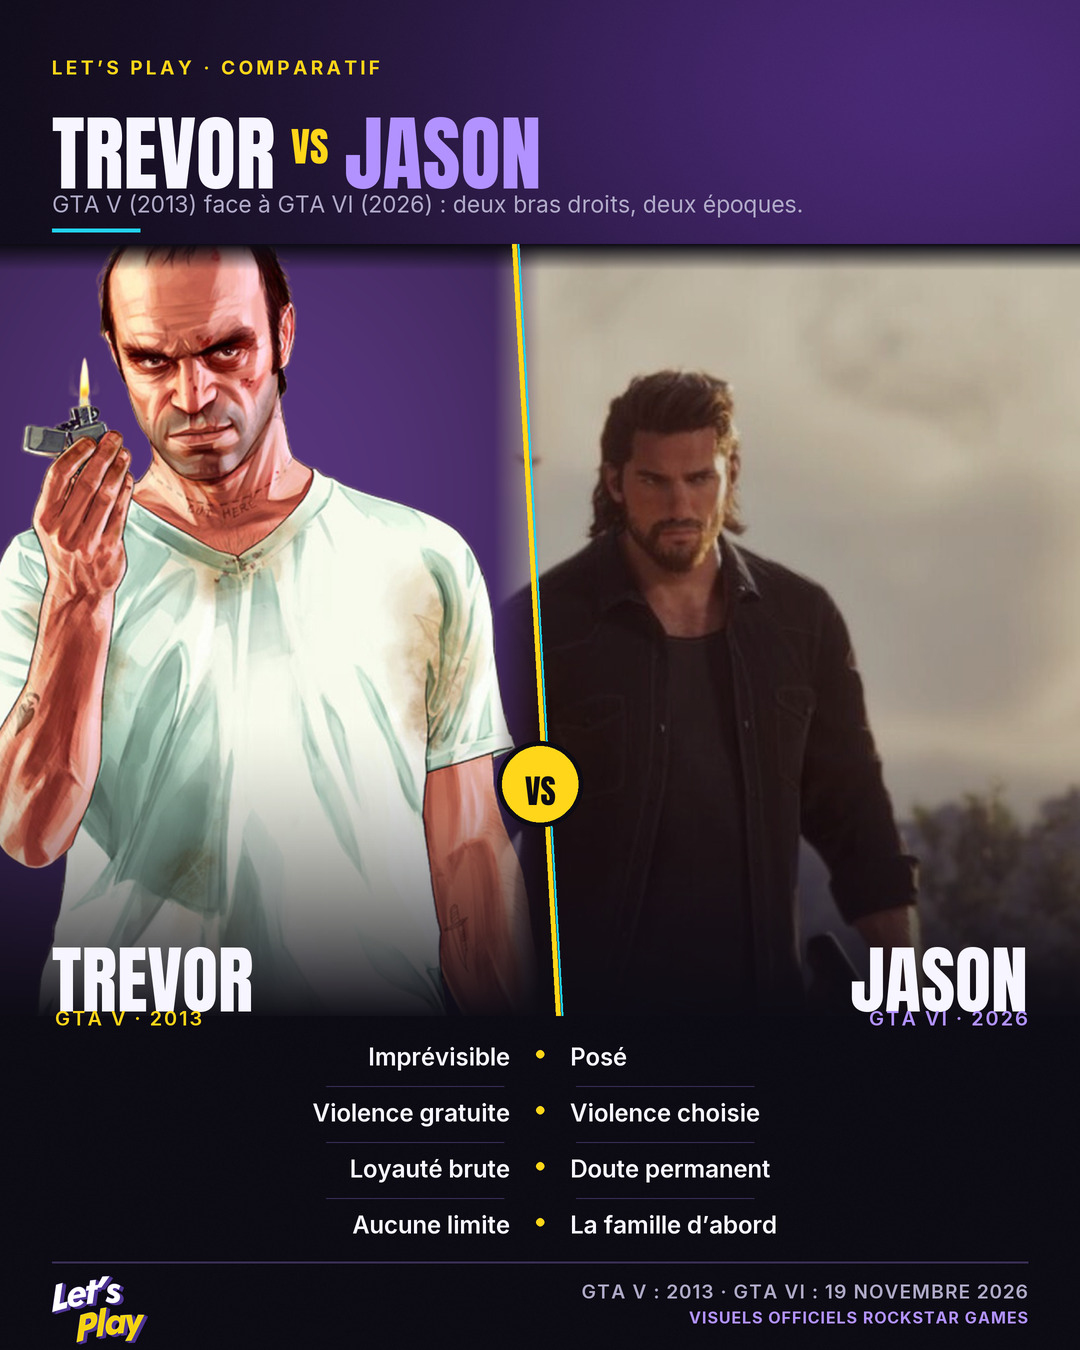
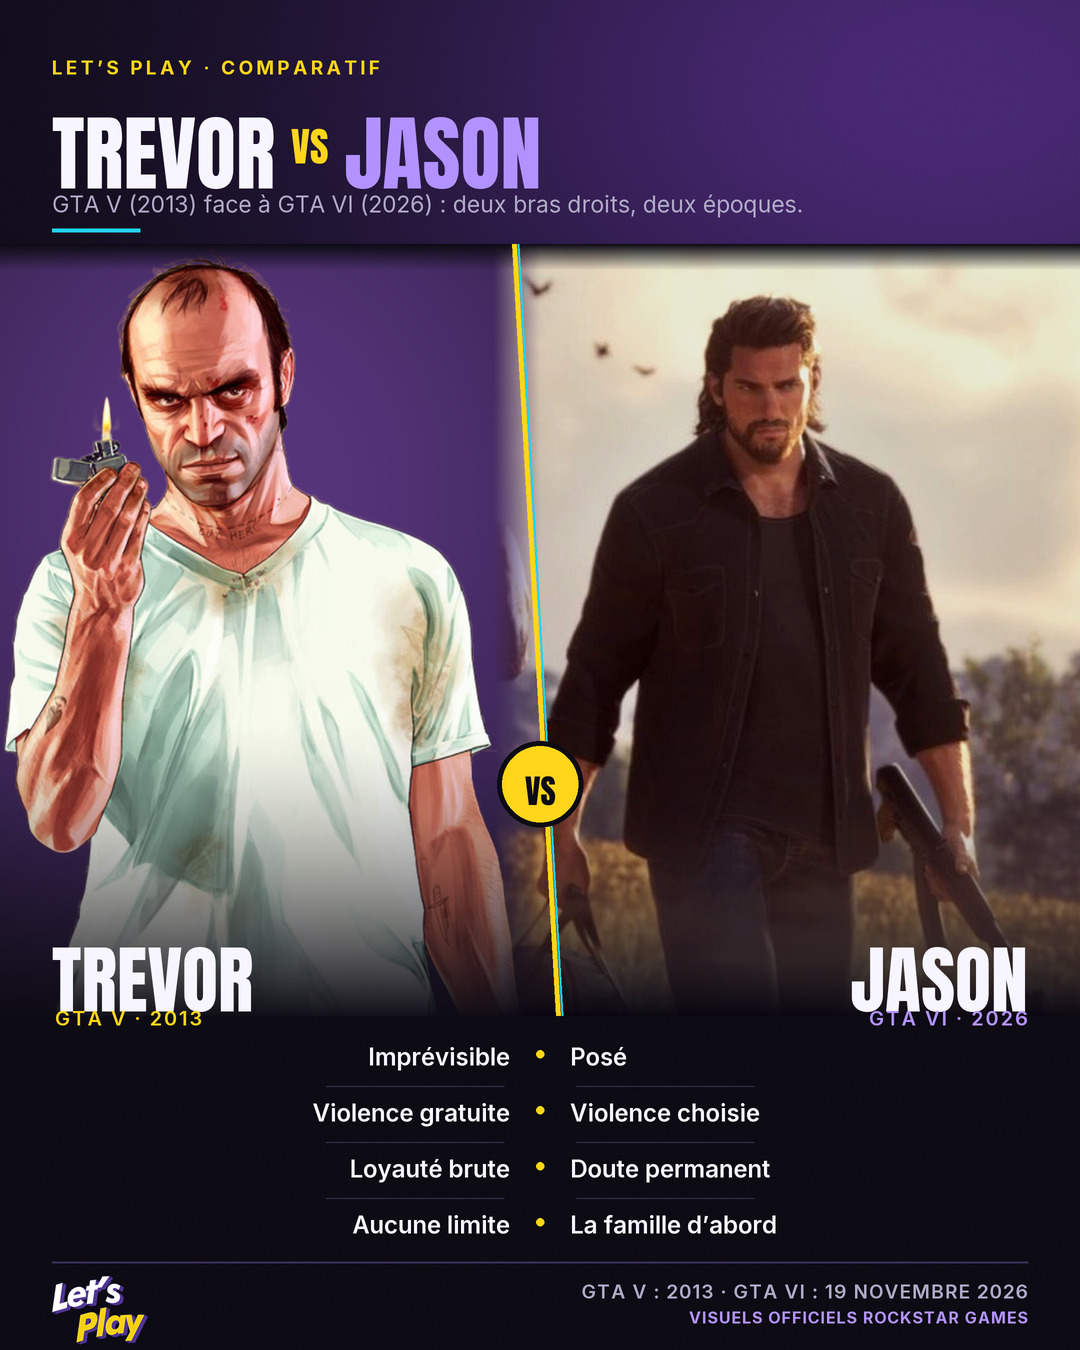
Visuel Instagram : les deux personnages à la même taille
Les portraits sont désormais mis à l'échelle sur la HAUTEUR DE TÊTE : sommet
du crâne et menton sont repérés dans chaque image source, la tête occupe la
même hauteur (150 px de maquette) et le crâne est posé à la même ordonnée
dans la bande. Trevor (buste) et Jason (plan plus large, recadré plus serré
depuis la clé d'art) paraissent ainsi de la même carrure.

Jason est aussi légèrement éclairci et contrasté : sa clé d'art est pâle,
elle se fondait dans le fond.

Changed region(s): [[0.0, 0.1867, 1.0, 0.7467]]

diff --git a/scripts/visuels/make_gta_trevor_jason_45.py b/scripts/visuels/make_gta_trevor_jason_45.py
@@ -28,7 +28,7 @@ import argparse
 from pathlib import Path
 
 import numpy as np
-from PIL import Image, ImageCms, ImageDraw, ImageFilter, ImageFont
+from PIL import Image, ImageCms, ImageDraw, ImageEnhance, ImageFilter, ImageFont
 
 HERE = Path(__file__).resolve().parent
 ROOT = HERE.parents[1]
@@ -58,13 +58,22 @@ ART_TOP, ART_H = 244, 772    # bande des portraits (bas = 1016)
 ROWS_TOP = 1042
 ROW_H = 56
 
+# Les deux visages sont mis à la MÊME hauteur de tête (`head_px`, en unités de
+# maquette) et posés à la même hauteur dans la bande (`head_at`) : les
+# personnages paraissent ainsi de la même taille, malgré un rendu en buste
+# pour Trevor et un plan plus large pour Jason.
+#   head / chin : sommet du crâne et bas du menton, en fractions de l'image
+#   source ; le rapport des deux donne la hauteur de tête dans cette image.
 TREVOR = {
     "name": "TREVOR",
     "game": "GTA V · 2013",
     "color": YELLOW,
     "points": ["Imprévisible", "Violence gratuite", "Loyauté brute", "Aucune limite"],
-    "focus": (0.50, 0.26),
-    "zoom": 1.12,
+    "head": (0.50, 0.006),
+    "chin": 0.163,
+    "head_px": 150,
+    "head_at": 0.075,
+    "align_x": 0.50,
 }
 
 JASON = {
@@ -72,8 +81,11 @@ JASON = {
     "game": "GTA VI · 2026",
     "color": VIOLET,
     "points": ["Posé", "Violence choisie", "Doute permanent", "La famille d’abord"],
-    "focus": (0.52, 0.20),
-    "zoom": 1.0,
+    "head": (0.46, 0.120),
+    "chin": 0.267,
+    "head_px": 150,
+    "head_at": 0.075,
+    "align_x": 0.47,
 }
 
 
@@ -117,14 +129,20 @@ def ground():
 
 
 def panel(source, spec, width, height, *, cutout=False):
-    """Portrait recadré à la largeur de la bande, sans bord ni cadre."""
+    """Portrait à l'échelle commune du visage, crâne ancré, sans bord ni cadre."""
     w, h = source.size
-    scale = max(width / w, height / h) * spec.get("zoom", 1.0)
-    art = source.resize((max(width, round(w * scale)), max(height, round(h * scale))),
-                        Image.Resampling.LANCZOS)
-    fx, fy = spec["focus"]
-    left = min(max(0, round(fx * art.width - width / 2)), art.width - width)
-    top = min(max(0, round(fy * art.height - height * 0.30)), art.height - height)
+    head_h = max(0.01, (spec["chin"] - spec["head"][1]) * h)  # hauteur de tête (px source)
+    # La bande est suréchantillonnée : on convertit la cible en pixels réels.
+    target_head = px(spec["head_px"]) * (height / px(ART_H))
+    scale = target_head / head_h
+    art = source.resize((max(1, round(w * scale)), max(1, round(h * scale))), Image.Resampling.LANCZOS)
+    if art.width < width:
+        art = art.resize((width, round(art.height * width / art.width)), Image.Resampling.LANCZOS)
+    head_x, head_y = spec["head"]
+    left = round(head_x * art.width - width * spec["align_x"])
+    top = round(head_y * art.height - height * spec["head_at"])
+    left = min(max(left, 0), max(0, art.width - width))
+    top = min(max(top, 0), max(0, art.height - height))
     art = art.crop((left, top, left + width, top + height)).convert("RGBA")
     if cutout:
         # Rendu détouré : aplat sombre teinté de l'encre du personnage, l'image
@@ -171,9 +189,13 @@ def art_band(im, trevor, jason):
 
     left = panel(trevor, TREVOR, px(half), band_h, cutout=True)
     right = panel(jason, JASON, px(half), band_h)
-    # Jason : la clé d'art est très claire (poussière, ciel) ; un voile léger
-    # l'accorde au traitement sombre de la moitié gauche.
-    right = Image.alpha_composite(right, Image.new("RGBA", right.size, INK + (46,)))
+    # Jason : la clé d'art est pâle (poussière, ciel) ; on remonte un peu le
+    # contraste avant un voile léger, pour l'accorder au rendu sombre de Trevor.
+    right = right.convert("RGB")
+    right = ImageEnhance.Brightness(right).enhance(1.14)
+    right = ImageEnhance.Contrast(right).enhance(1.08)
+    right = right.convert("RGBA")
+    right = Image.alpha_composite(right, Image.new("RGBA", right.size, INK + (24,)))
     layer = Image.new("RGBA", (px(W), band_h), (0, 0, 0, 0))
     layer.paste(left, (0, 0), seam_mask(px(half), band_h, left_side=True))
     layer.paste(right, (px(SEAM - FEATHER), 0), seam_mask(px(half), band_h, left_side=False))
